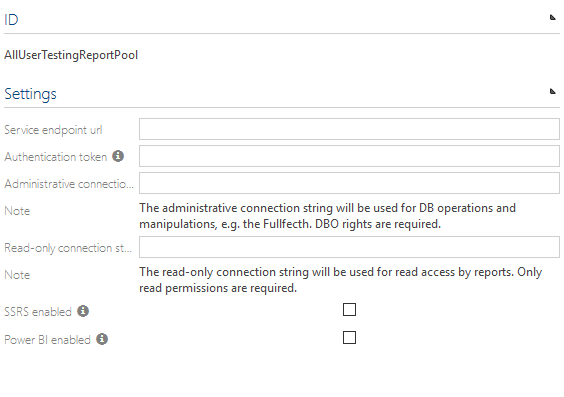
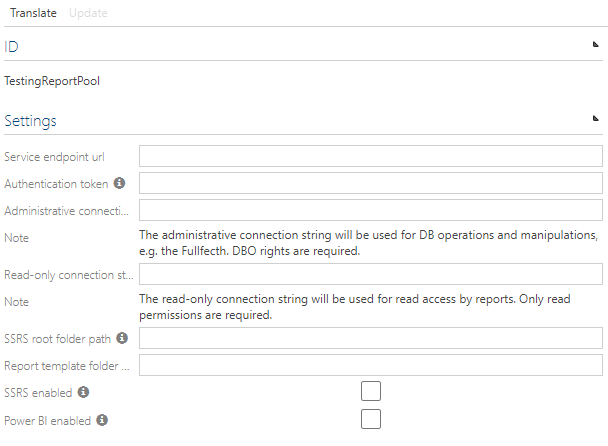
Changed configuration documentation

diff --git a/docs/admin/services/reporting-service/config-symbio.md b/docs/admin/services/reporting-service/config-symbio.md
@@ -22,7 +22,9 @@ In Symbio follow these steps to create and configure a report pool:
 | Service endpoint url | Enter the URL of the connector service as noted during its setup. |
 | Authentication token | Enter the security:authToken that was defined in the connector service's settings. |
 | Administrative connection string | Enter a connection string to the ODS database that allows full access to the database. |
-| Rea-only connection string | Enter a connection string the the ODS database that allows read-only access to the database. |
+| Read-only connection string | Enter a connection string the the ODS database that allows read-only access to the database. |
+| SSRS root folder path | The SSRS root folder path for this connector instance as noted during SSRS worksapce template setup, e.g. SymbioReporting. |
+| Report template folder | The name of the template folder in the root path given above as noted during SSRS workspace template setup, e.g. _Template. |
 | SSRS enabled | Mark this checkbox if you want to support SSRS reports with this report pool. |
 | Power BI enabled | Mark this checkbox if you want to support Power BI reports with this report pool. |
 
@@ -30,10 +32,10 @@ In Symbio follow these steps to create and configure a report pool:
 
 In Symbio follow these steps to connect a storage to a report pool:
 
-1. Login as an admin user to the _collection_ where the storage is located
+1. Login as an admin user to the _Collection_ where the storage is located
 2. Switch to _Storages_
 3. Select the storage to connect to a report pool
-4. Select the desired report pool from the drop down
+4. Select the desired _Report pool_ from the drop down
 
 ![](media/config-symbio-2.png)
 

diff --git a/docs/admin/services/reporting-service/config-connector-console.md b/docs/admin/services/reporting-service/config-connector-console.md
@@ -17,10 +17,11 @@ The Connector service has several values that need to be configured for it to fu
 | configStore:table | The name of the table to manage connector service settings in, e.g. _ReportingConfig_. |
 | configStore:connection | The connection string to use for connecting to a database to store the settings table in. DBO rights are needed to create the table. |
 | global:ssrsEndpointUrl | The SSRS reporting service endpoint URL noted during SSRS setup with _/ReportService2010.asmx_ appended, e.g. _https://example.com/ReportServer/ReportService2010.asmx_. |
-| global:ssrsRootFolderPath | The SSRS root folder path for this connector instance as noted during SSRS worksapce template setup, e.g. _SymbioReporting_.  |
 | global:ssrsUserName | The name of a user which has management access to the SSRS root folder path given above. |
 | global:ssrsPassword | The password of the user named above. |
+| global:ssrsRootFolderPath | The SSRS root folder path for this connector instance as noted during SSRS worksapce template setup, e.g. _SymbioReporting_.  |
 | global:templateName | The name of the template folder in the root path given above as noted during SSRS workspace template setup, e.g. __Template_. |
+| global:sqlCommandExecutionTimeoutInSeconds | The SQL command execution timeout in seconds, e.g. 7200. |
 
 ### Reporting Console<a name="console"></a>
 
